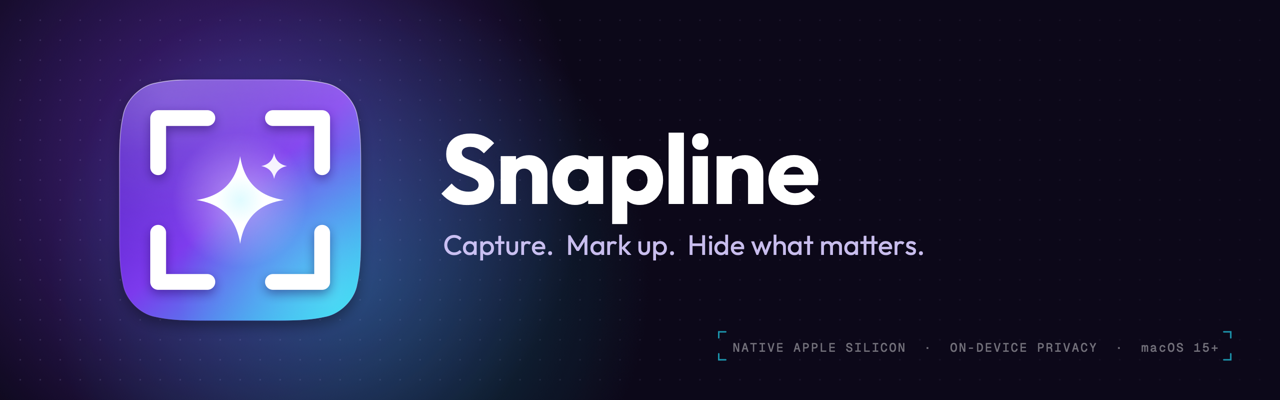
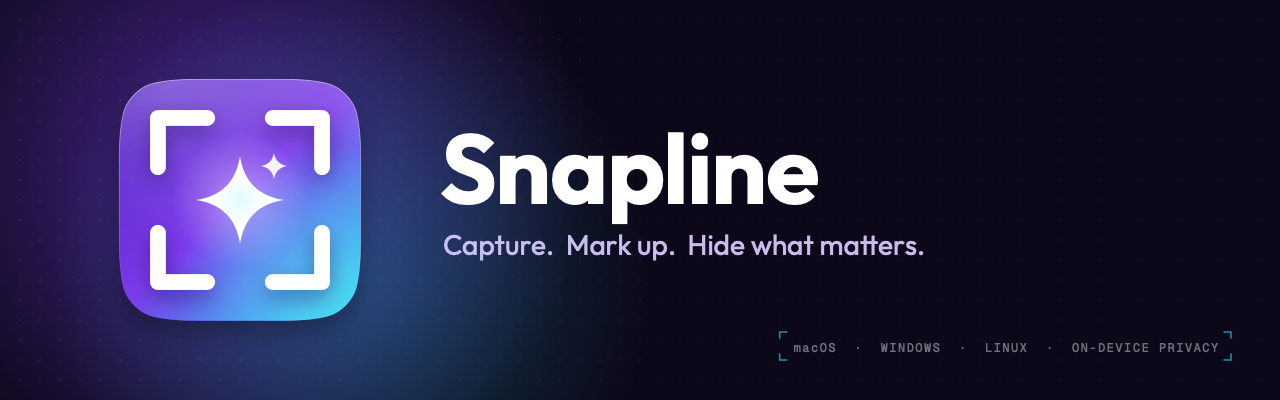
Website: name Windows and Linux, with coming soon instead of downloads until the first release

diff --git a/site/privacy/index.html b/site/privacy/index.html
@@ -37,28 +37,30 @@
   <main id="main" class="doc">
     <div class="wrap">
       <h1>Privacy policy</h1>
-      <p class="updated">Last updated 28 October 2026</p>
+      <p class="updated">Last updated 31 October 2026</p>
 
       <div class="summary">
-        <p>Snapline is a screenshot app that runs on your Mac. It has no servers, no accounts of its own, no analytics and no tracking. Your screenshots are read only on your Mac. An image leaves your Mac only when you choose to upload, search or email it, and then it goes only to the place you chose.</p>
+        <p>Snapline is a screenshot app that runs on your Mac, Windows PC or Linux computer. It has no servers, no accounts of its own, no analytics and no tracking. Your screenshots are read only on your computer. An image leaves your computer only when you choose to upload, search, email or share it, and then it goes only to the place you chose.</p>
       </div>
 
-      <p>This policy covers the Snapline app for macOS and this website. Snapline is made by Barayuda (“we”, “us”).</p>
+      <p>This policy covers the Snapline apps for macOS, Windows and Linux, and this website. Snapline is made by Barayuda (“we”, “us”).</p>
 
-      <h2>What Snapline does on your Mac</h2>
+      <h2>What Snapline does on your computer</h2>
       <ul>
-        <li>Capturing the screen, drawing, auto-hide of sensitive data and Copy Text all run on your Mac, using Apple's built-in frameworks (ScreenCaptureKit and Vision).</li>
+        <li>Capturing the screen, drawing, auto-hide of sensitive data and Copy Text all run on your computer. On a Mac they use Apple's built-in frameworks (ScreenCaptureKit and Vision). On Windows they use Windows' built-in text recognition (Windows.Media.Ocr) and face detection. On Linux they use Tesseract, which is part of Snapline; Linux has no face detection yet.</li>
         <li>No screenshot and no recognised text is sent to us or to anyone else to be read, analysed or stored.</li>
         <li>Snapline does not collect usage data, crash reports or any other telemetry.</li>
-        <li>Your settings are stored on your Mac. Secrets (bucket keys and your Google sign-in) are stored in the macOS Keychain.</li>
+        <li>Your settings are stored on your computer: on a Mac in Snapline's preferences, on Windows in <code>%APPDATA%\Snapline\settings.toml</code>, on Linux in <code>~/.config/Snapline/settings.toml</code>. Secrets (bucket keys and your Google sign-in) are stored in the macOS Keychain, in Windows Credential Manager, or on Linux in the desktop keyring (GNOME Keyring or KWallet).</li>
+        <li>On Windows, Edit, Share and Print write a temporary copy of the screenshot to <code>%TEMP%\Snapline</code>, so the app you open it in can read it. Snapline does not delete these copies; Windows Storage Sense or Disk Cleanup can, or you can delete the folder yourself. On Linux, Edit, Share and Print write the copy to <code>~/.cache/Snapline/temp</code>.</li>
       </ul>
 
-      <h2>When an image leaves your Mac</h2>
+      <h2>When an image leaves your computer</h2>
       <p>Only when you ask for it:</p>
       <ul>
         <li><strong>Upload</strong> sends the image to the destination you set up: your own S3-compatible bucket, or your own Google Drive. Anyone with the link can view it.</li>
         <li><strong>Search similar images</strong> uploads the image there first, then opens Google Lens or TinEye in your browser with that link. Those services handle the image under their own privacy policies.</li>
-        <li><strong>Email</strong> hands the file to your mail app. Nothing is sent until you send the email.</li>
+        <li><strong>Email</strong> (Mac) hands the file to your mail app. Nothing is sent until you send the email.</li>
+        <li><strong>Share</strong> (Windows) hands the file to the app you pick in the Windows Share window, such as Outlook or Teams. That app handles it under its own terms and privacy policy, and nothing is sent until you send it there. <strong>Share</strong> (Linux) opens a new email with the file attached in your mail app; nothing is sent until you send it.</li>
       </ul>
       <p>We never receive these images. The services you upload to (for example Google, Amazon Web Services or Cloudflare) handle them under their own terms and privacy policies.</p>
 
@@ -66,19 +68,19 @@
       <p>If you choose Google Drive as your upload destination and sign in with Google, Snapline asks for these permissions:</p>
       <ul>
         <li><strong>See, edit, create and delete only the specific Google Drive files you use with this app</strong> (<code>drive.file</code>). Snapline uses it to create a “Snapline” folder in your Drive, upload the screenshots you choose to upload, and set them to “anyone with the link can view” so the link works. Snapline cannot see any other files in your Drive.</li>
-        <li><strong>Your email address and basic sign-in</strong> (<code>openid</code>, <code>email</code>). Snapline uses it only to show which Google account is signed in, in Preferences.</li>
+        <li><strong>Your email address and basic sign-in</strong> (<code>openid</code>, <code>email</code>). Snapline uses it only to show which Google account is signed in, in Preferences (Settings on Windows).</li>
       </ul>
       <p>How this data is handled:</p>
       <ul>
-        <li>Google sign-in happens in your own browser. Snapline never sees your Google password. It receives the sign-in result on a local address on your Mac (127.0.0.1).</li>
-        <li>The sign-in token is stored in the macOS Keychain, and your email address in Snapline's settings, both only on your Mac. They are sent only to Google, to upload files and to sign out.</li>
+        <li>Google sign-in happens in your own browser. Snapline never sees your Google password. It receives the sign-in result on a local address on your computer (127.0.0.1).</li>
+        <li>The sign-in token is stored in the macOS Keychain or Windows Credential Manager, and your email address in Snapline's settings, both only on your computer. They are sent only to Google, to upload files and to sign out.</li>
         <li>We do not receive, store, sell or share your Google data. It is not used for advertising, it is not read by people, and it is not used to train AI or machine learning models.</li>
       </ul>
       <p>Snapline's use and transfer of information received from Google APIs adheres to the <a href="https://developers.google.com/terms/api-services-user-data-policy">Google API Services User Data Policy</a>, including the Limited Use requirements.</p>
-      <p>To remove access, click <strong>Sign out</strong> in Snapline's Preferences, which also revokes Snapline's access at Google. You can also remove it at any time on your <a href="https://myaccount.google.com/permissions">Google Account permissions page</a>. Files you uploaded stay in the “Snapline” folder in your Drive until you delete them.</p>
+      <p>To remove access, click <strong>Sign out</strong> in Snapline's Preferences (Settings on Windows), which also revokes Snapline's access at Google. You can also remove it at any time on your <a href="https://myaccount.google.com/permissions">Google Account permissions page</a>. Files you uploaded stay in the “Snapline” folder in your Drive until you delete them.</p>
 
       <h2>S3-compatible storage</h2>
-      <p>If you use an S3-compatible bucket, your access key and secret are stored in the macOS Keychain. They are used only to sign upload requests sent directly to the endpoint you entered, over HTTPS.</p>
+      <p>If you use an S3-compatible bucket, your access key and secret are stored in the macOS Keychain or Windows Credential Manager. They are used only to sign upload requests sent directly to the endpoint you entered, over HTTPS.</p>
 
       <h2>This website</h2>
       <p>This website is a set of static pages. It uses no cookies, no analytics and no third-party scripts or fonts. If you pick light or dark mode with the theme switch, your browser remembers that choice in its own storage; it is never sent to us. It is hosted on Netlify, which may keep standard server logs, such as IP addresses and browser type, to run and protect the service. See <a href="https://www.netlify.com/privacy/">Netlify's privacy policy</a>.</p>

diff --git a/site/index.html b/site/index.html
@@ -3,14 +3,14 @@
 <head>
   <meta charset="utf-8">
   <meta name="viewport" content="width=device-width, initial-scale=1">
-  <title>Snapline: screenshots for your Mac, with the private bits hidden</title>
-  <meta name="description" content="Snapline is a free screenshot tool for the Mac menu bar. Select an area, mark it up, then copy, save or share it. Emails, card numbers and keys are covered on your Mac before you share.">
+  <title>Snapline: screenshots for your Mac or PC, with the private bits hidden</title>
+  <meta name="description" content="Snapline is a free screenshot tool for the Mac menu bar, the Windows tray and Linux panels. Select an area, mark it up, then copy, save or share it. Emails, card numbers and keys are covered on your computer before you share.">
   <link rel="canonical" href="https://snapline.barayuda.web.id/">
   <link rel="icon" href="/assets/favicon-64.png" type="image/png">
   <link rel="apple-touch-icon" href="/assets/apple-touch-icon.png">
   <meta property="og:type" content="website">
   <meta property="og:title" content="Snapline">
-  <meta property="og:description" content="Capture. Mark up. Hide what matters. A free screenshot tool for Macs with Apple silicon.">
+  <meta property="og:description" content="Capture. Mark up. Hide what matters. A free screenshot tool for Macs with Apple silicon, Windows PCs and Linux desktops.">
   <meta property="og:url" content="https://snapline.barayuda.web.id/">
   <meta property="og:image" content="https://snapline.barayuda.web.id/assets/og.png">
   <meta name="twitter:card" content="summary_large_image">
@@ -46,12 +46,13 @@
       <div class="wrap">
         <div>
           <h1><span>Capture.</span> <span>Mark up.</span> <span>Hide what matters.</span></h1>
-          <p class="lede">A free screenshot tool for the Mac menu bar. Drag over an area, draw on it, then copy, save or share it. Emails, card numbers and keys are covered before anyone else sees them.</p>
+          <p class="lede">A free screenshot tool for the Mac menu bar, the Windows tray and Linux panels. Drag over an area, draw on it, then copy, save or share it. Emails, card numbers and keys are covered before anyone else sees them.</p>
           <div class="actions">
             <a class="button primary" href="#get">Build it on your Mac</a>
+            <span class="button soon" aria-disabled="true">Windows and Linux: coming soon</span>
             <a class="button" href="https://github.com/barayuda/Snapline">See the code on GitHub</a>
           </div>
-          <p class="fineprint">For Macs with Apple silicon, macOS 15 or newer. Everything runs on your Mac.</p>
+          <p class="fineprint">For Macs with Apple silicon, macOS 15 or newer. Versions for Windows 10 and 11, and for Linux desktops (X11 and Wayland), are coming soon. Everything runs on your computer.</p>
         </div>
 
         <figure class="demo">
@@ -127,15 +128,15 @@
     <section class="section" id="privacy" aria-labelledby="privacy-title">
       <div class="wrap split">
         <div>
-          <h2 id="privacy-title">Nothing leaves your Mac unless you send it</h2>
+          <h2 id="privacy-title">Nothing leaves your computer unless you send it</h2>
         </div>
         <div>
-          <p class="intro">Snapline has no servers, no accounts of its own, no analytics and no tracking. Capturing, auto-hide and Copy Text use Apple's built-in frameworks on your Mac.</p>
+          <p class="intro">Snapline has no servers, no accounts of its own, no analytics and no tracking. Capturing, auto-hide and Copy Text use the built-in frameworks of macOS or Windows, or Tesseract on Linux, on your computer.</p>
           <ul class="plain">
             <li><strong>Upload</strong> sends the image to the place you set up: your own bucket or your own Google Drive.</li>
             <li><strong>Search similar images</strong> uploads it there first, then opens Google Lens or TinEye with the link.</li>
-            <li><strong>Email</strong> hands the file to your mail app.</li>
-            <li>Bucket keys and your Google sign-in are kept in the macOS Keychain.</li>
+            <li><strong>Email</strong> (Mac) hands the file to your mail app; <strong>Share</strong> (Windows) hands it to the app you pick; <strong>Share</strong> (Linux) opens an email with the file attached.</li>
+            <li>Bucket keys and your Google sign-in are kept in the macOS Keychain, Windows Credential Manager or the desktop keyring on Linux.</li>
           </ul>
           <p class="note">Details, including what Snapline does with Google account data: <a href="/privacy/">Privacy policy</a>.</p>
         </div>
@@ -159,7 +160,7 @@ cd Snapline</pre><button class="copy" type="button" data-copy="step-clone">Copy<
           <li>
             <div>
               <p>Build it and put it in Applications.</p>
-              <div class="code"><pre id="step-build">scripts/make-app.sh --install</pre><button class="copy" type="button" data-copy="step-build">Copy</button></div>
+              <div class="code"><pre id="step-build">macOS/scripts/make-app.sh --install</pre><button class="copy" type="button" data-copy="step-build">Copy</button></div>
             </div>
           </li>
           <li>

diff --git a/site/styles.css b/site/styles.css
@@ -112,6 +112,9 @@ kbd, code { font-family: var(--mono); font-size: 0.85em; }
 .button:hover { background: var(--surface); text-decoration: none; }
 .button.primary { background: var(--violet); border-color: var(--violet); color: #fff; }
 .button.primary:hover { background: var(--violet-deep); border-color: var(--violet-deep); }
+/* Not available yet: looks like a button, does nothing. */
+.button.soon { color: var(--muted); border-style: dashed; cursor: default; }
+.button.soon:hover { background: none; }
 
 .fineprint { font-size: 0.95rem; color: var(--muted); margin-top: 1rem; }
 
